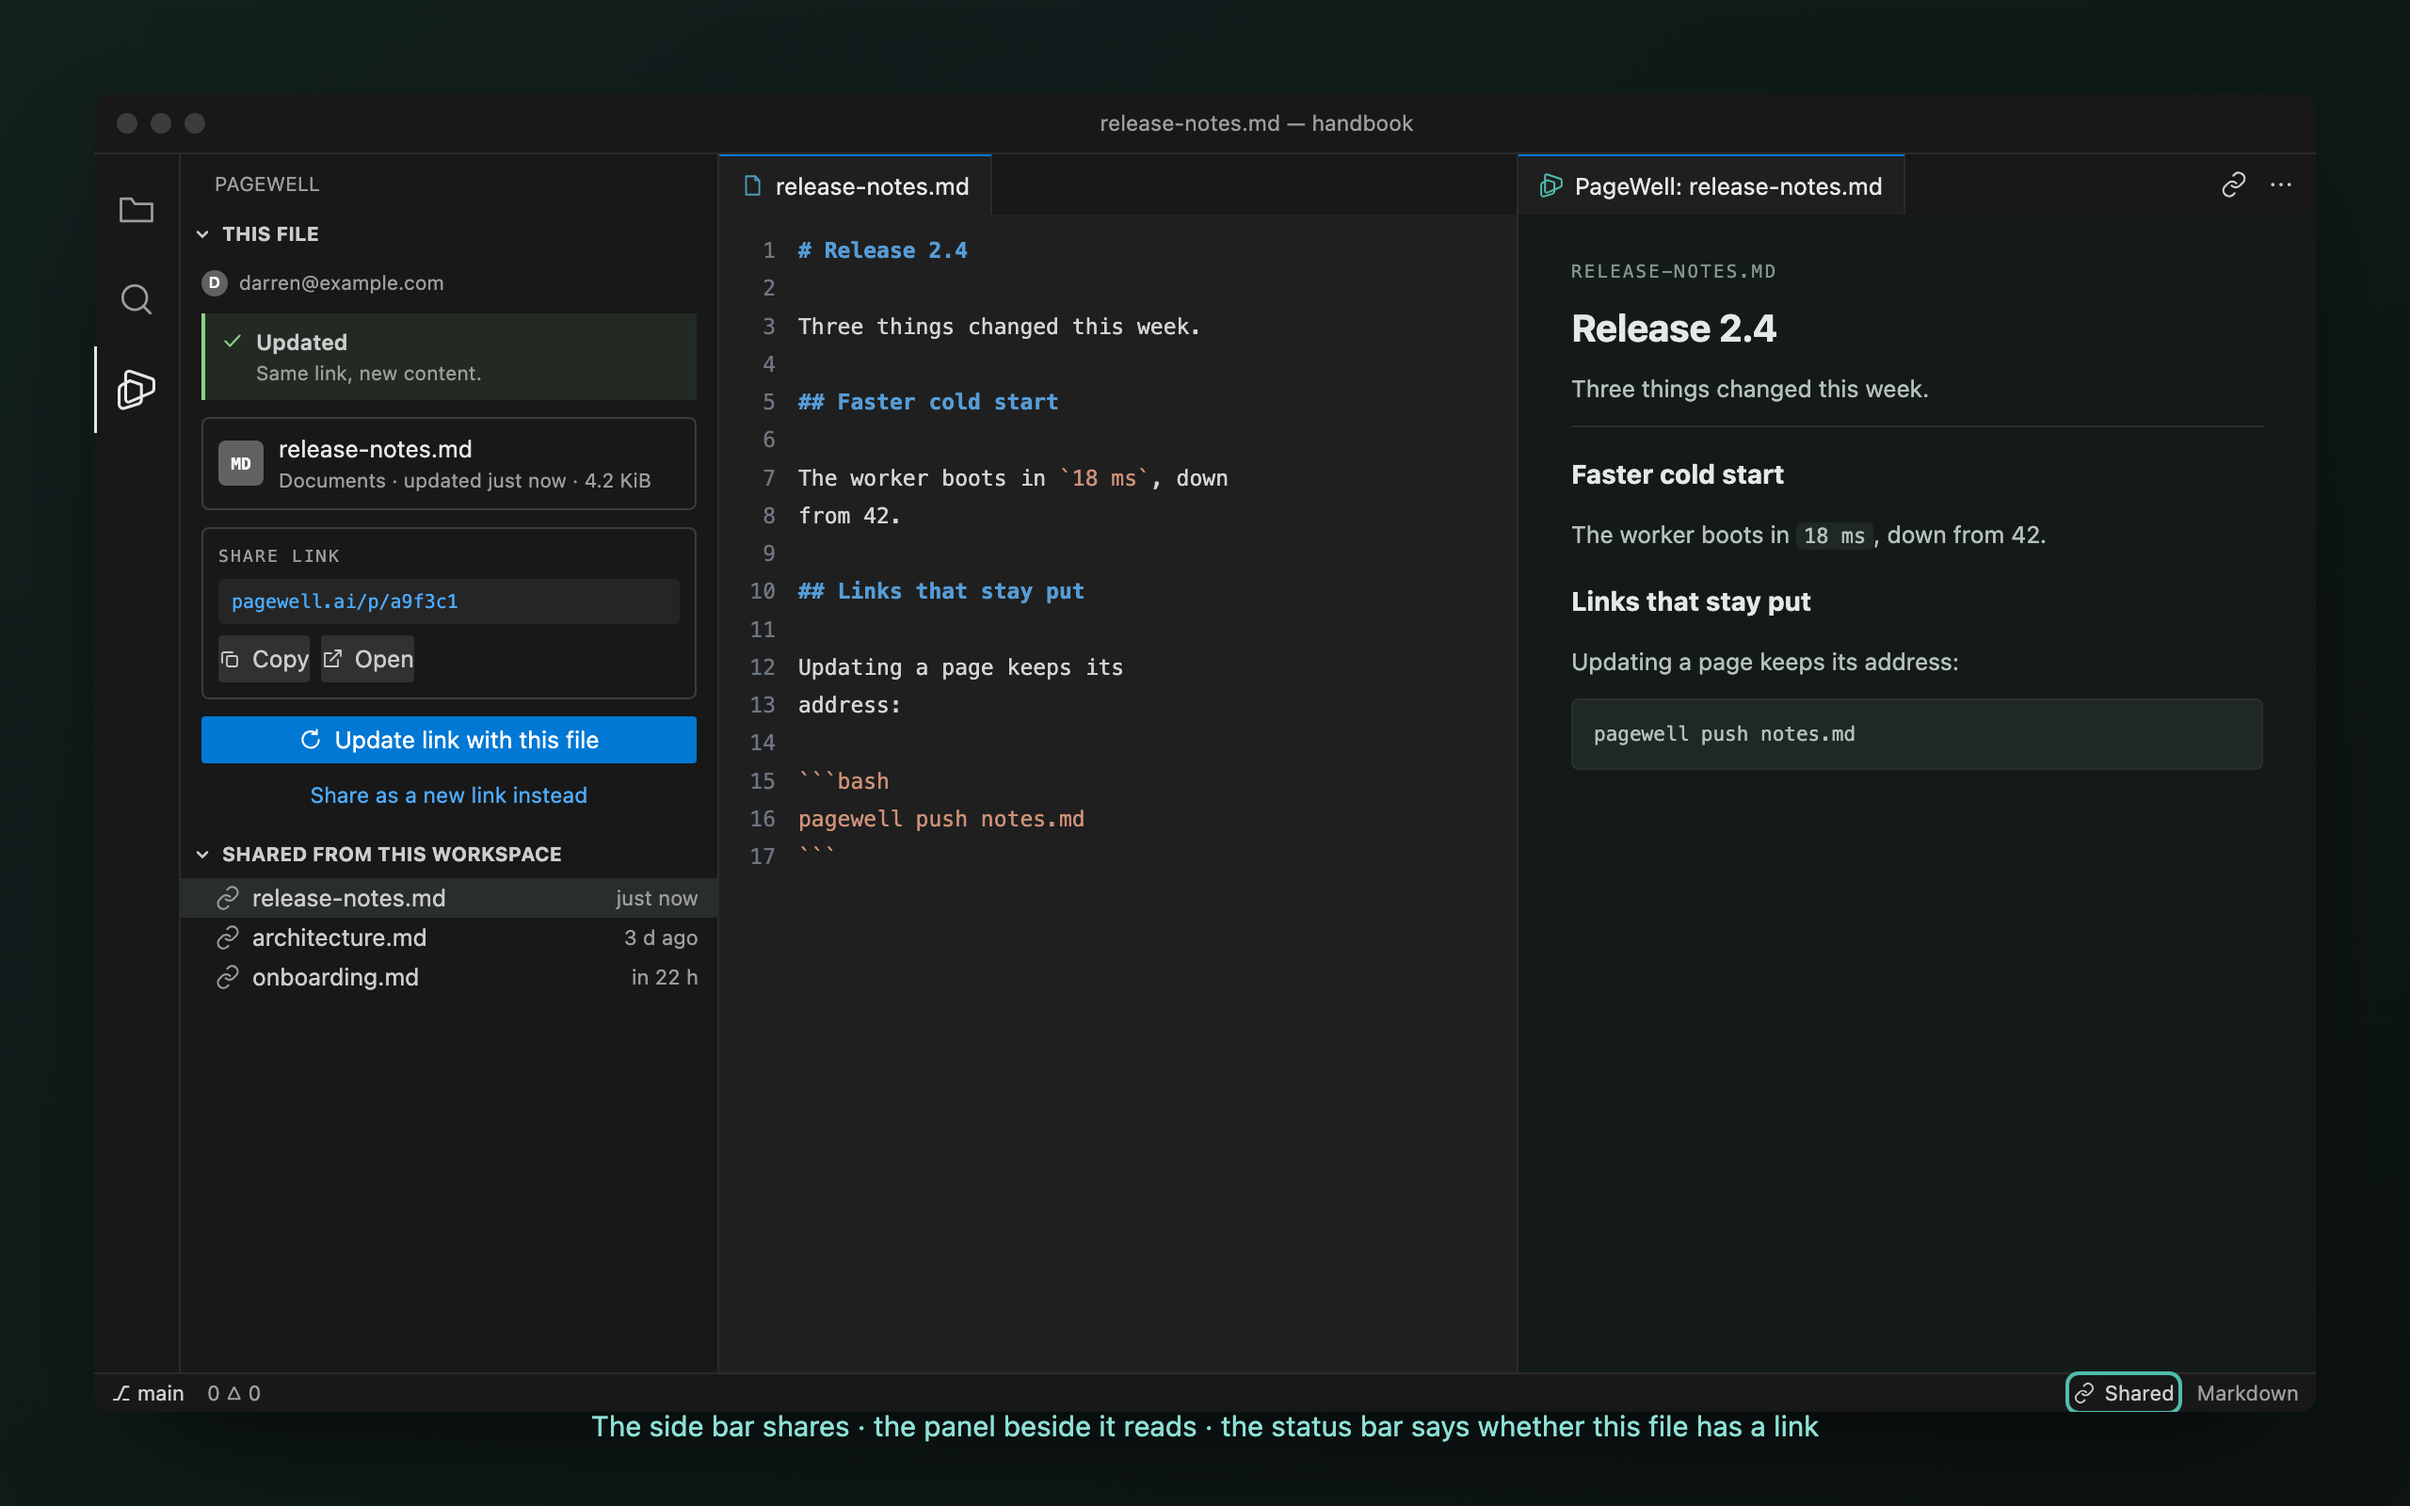
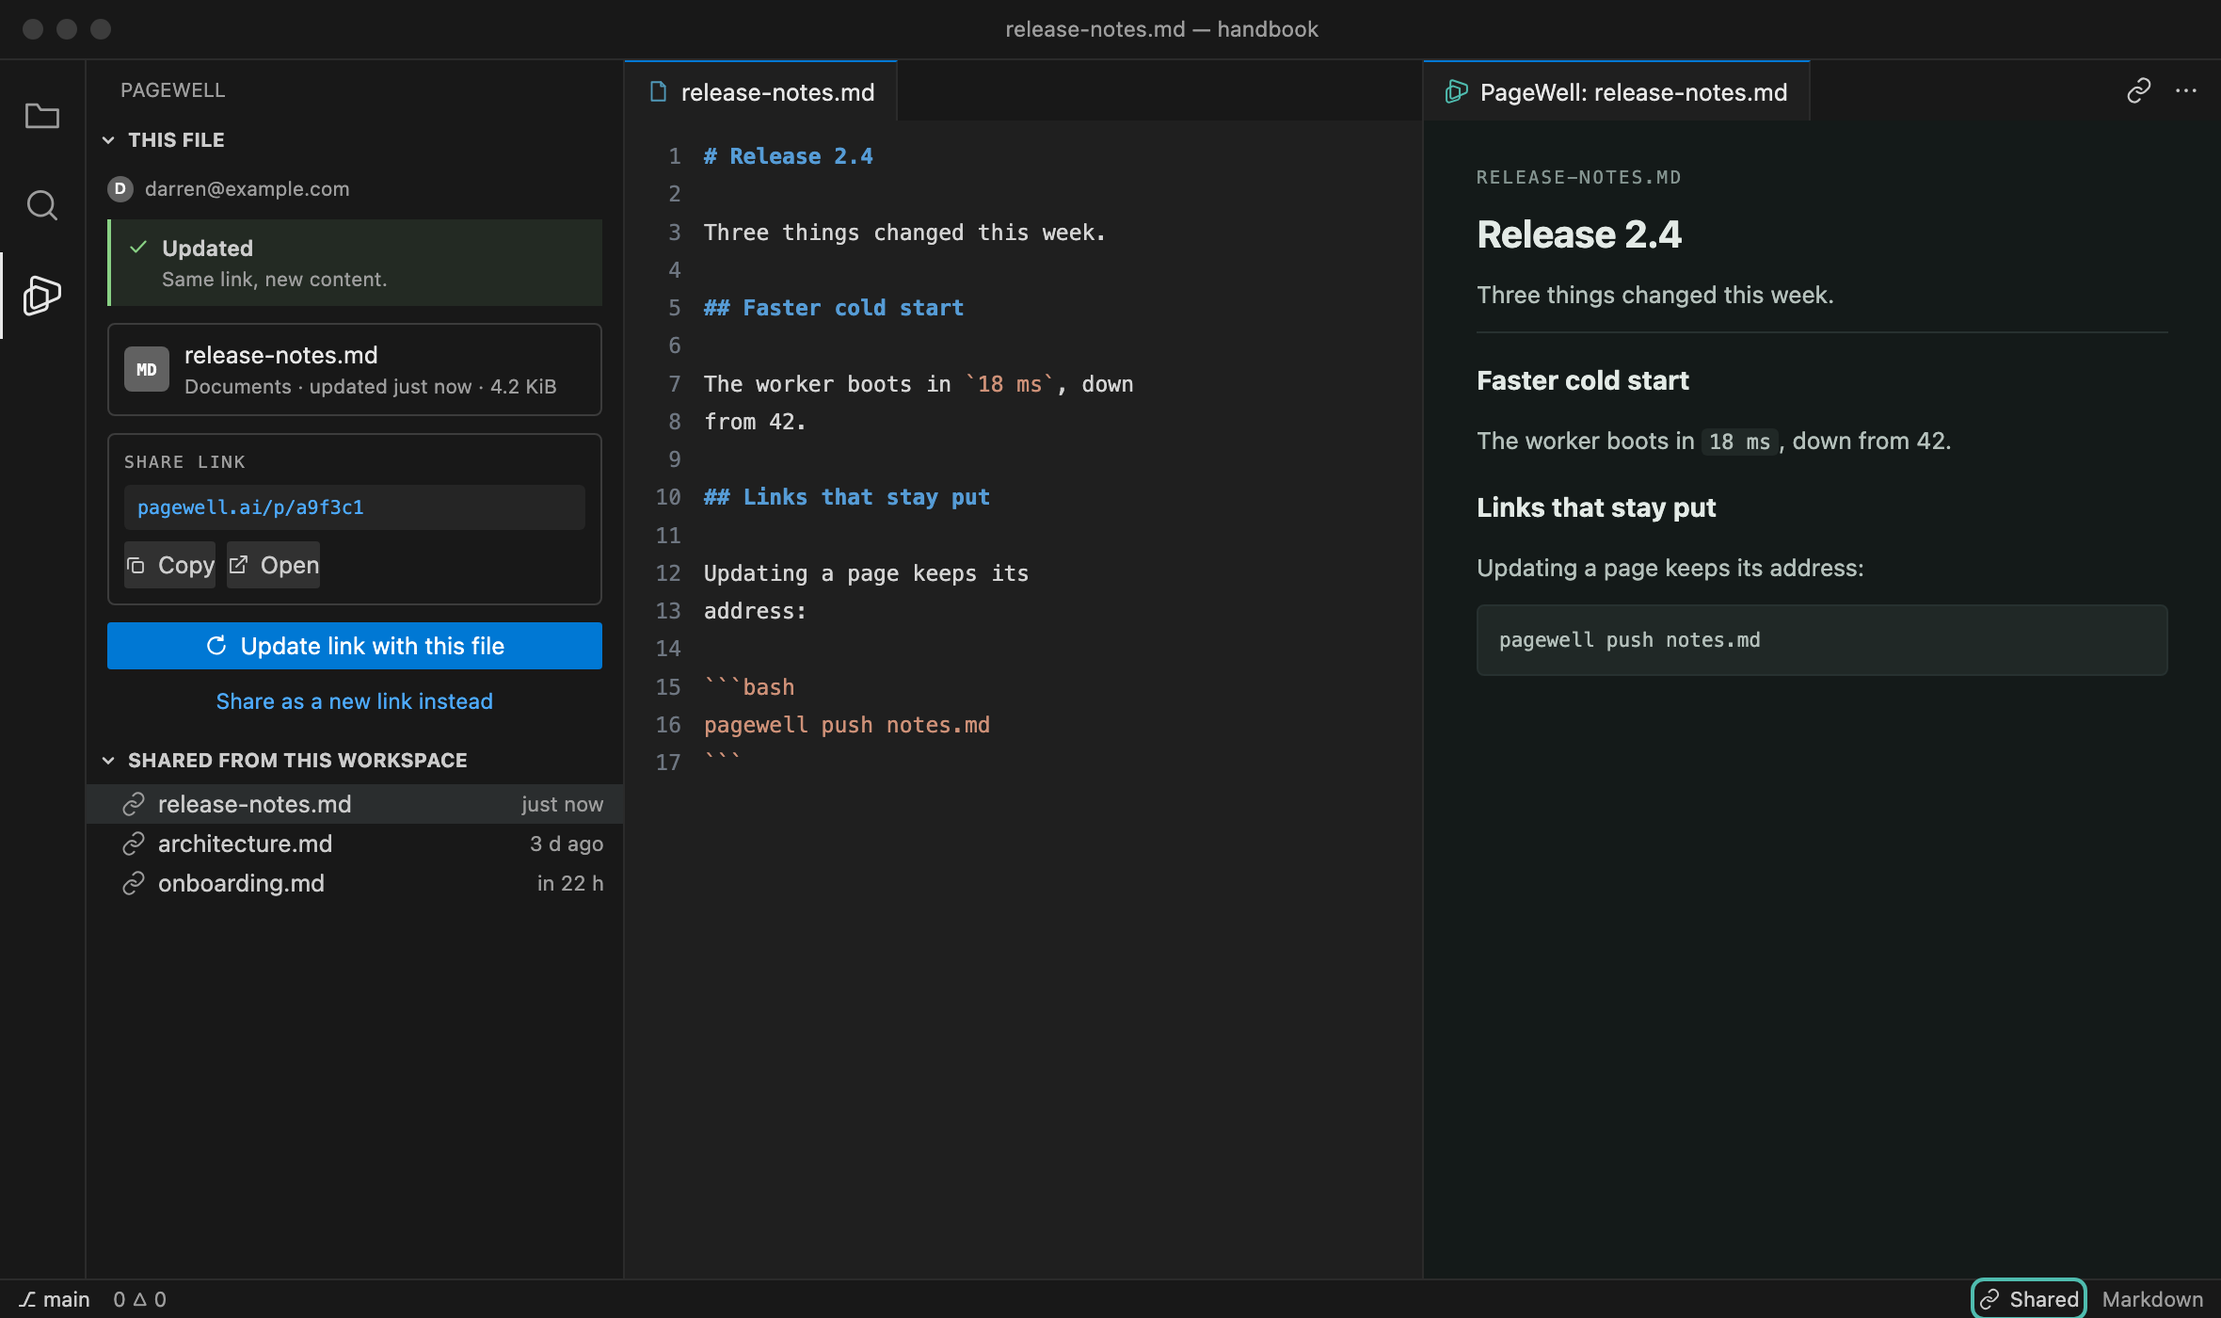
Update Marketplace link and screenshots

diff --git a/README.md b/README.md
@@ -85,7 +85,7 @@ Right-click a `.md` or `.html` file in the editor or the Explorer for the first 
 
 ## This repository
 
-The Marketplace listing is coming; until then install the `.vsix` below.
+Install it from the [Visual Studio Marketplace](https://marketplace.visualstudio.com/items?itemName=pagewellai.pagewell), or from the `.vsix` below.
 
 It holds the **built extension only** — the source lives in the PageWell monorepo, and
 every release here comes from one build there (see `MANIFEST`).
